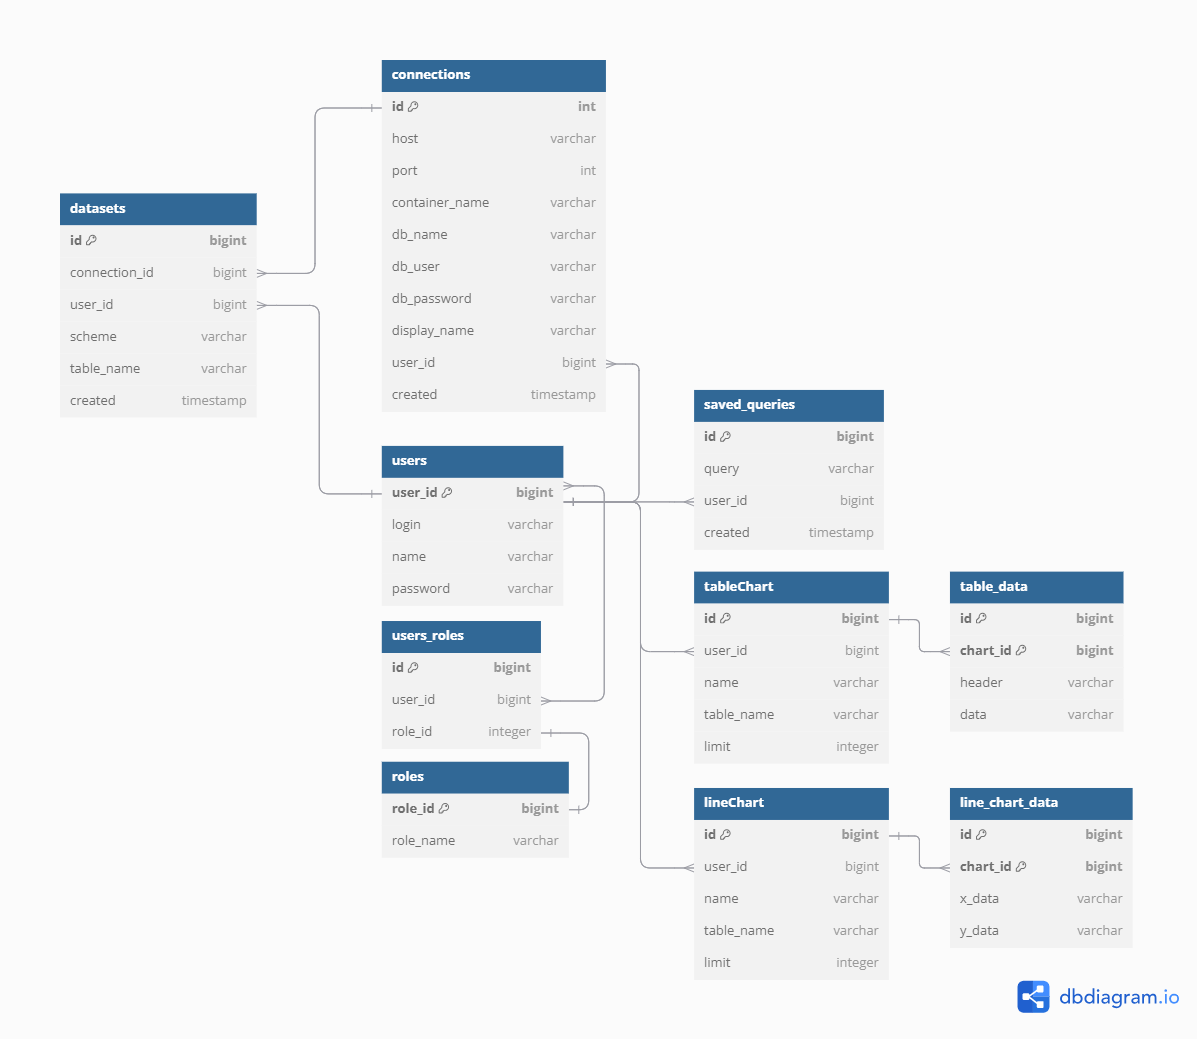
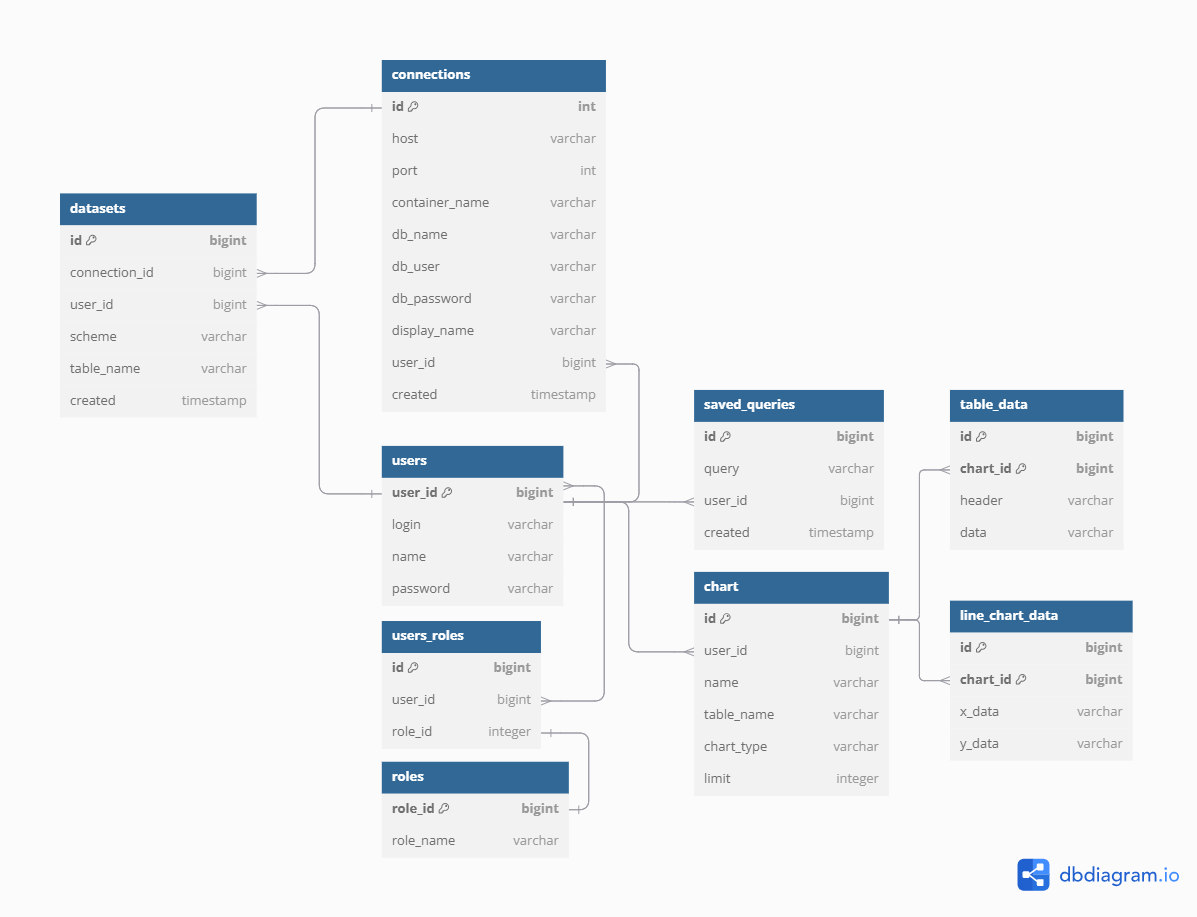
ontroller service

diff --git a/src/main/java/datamartapp/services/implementation/ChartServiceImp.java b/src/main/java/datamartapp/services/implementation/ChartServiceImp.java
@@ -1,0 +1,85 @@
+package datamartapp.services.implementation;
+
+import datamartapp.common.ChartType;
+import datamartapp.dto.chart.ChartDto;
+import datamartapp.dto.chart.ChartDtoResponse;
+import datamartapp.dto.chart.LineChartDto;
+import datamartapp.dto.chart.TableChartDto;
+import datamartapp.exceptions.NotFoundException;
+import datamartapp.exceptions.ValidationException;
+import datamartapp.model.charts.LineChart;
+import datamartapp.services.ChartService;
+import lombok.RequiredArgsConstructor;
+import lombok.extern.slf4j.Slf4j;
+import org.springframework.stereotype.Service;
+
+import java.util.List;
+
+@Service
+@RequiredArgsConstructor
+@Slf4j
+public class ChartServiceImp implements ChartService {
+
+    @Override
+    public TableChartDto createTableChart(ChartDto chartDto, int limit, ChartType chartType, List<String> headers) {
+        validateLimit(limit);
+        return prepareTableChart(chartDto, limit, headers);
+    }
+
+    @Override
+    public LineChartDto createLineChart(ChartDto chartDto, int limit, ChartType chartType,
+                                        String xAxisColumn, String yAxisColumn) {
+        validateLimit(limit);
+        return prepareLineChart(chartDto, limit, xAxisColumn, yAxisColumn);
+    }
+
+    private TableChartDto prepareTableChart(ChartDto chartDto, int limit, List<String> headers) {
+
+        return null;
+    }
+
+    private LineChartDto prepareLineChart(ChartDto chartDto, int limit, String xAxisColumn, String yAxisColumn) {
+        return null;
+    }
+
+    private void validateLimit(int limit) {
+        if (limit <= 0) {
+            log.warn("");
+            throw new ValidationException("");
+        }
+    }
+
+
+
+/*    @Override
+    public ChartDtoResponse createChart(ChartDto chartDtoRequest, int limit, String type) {
+        validateLimit(limit);
+        ChartType chartType = validateChartType(type);
+        return defineAndCreateChart(chartDtoRequest, limit, chartType);
+    }*/
+
+/*    private ChartDtoResponse defineAndCreateChart(ChartDto chartDto, int limit, ChartType chartType) {
+        if (chartType.equals(ChartType.TABLE_CHART)) {
+            return createTableChart(chartDto, limit);
+        }
+        if (chartType.equals(ChartType.LINE_CHART)) {
+            return createLineChart(chartDto, limit);
+        }
+        log.warn("");
+        throw new NotFoundException("");
+    }*/
+
+
+
+
+/*    private ChartType validateChartType(String type) {
+        try {
+            return ChartType.valueOf(type);
+        } catch (IllegalArgumentException e) {
+            log.warn("");
+            throw new ValidationException("");
+        }
+    }*/
+
+
+}

diff --git a/src/main/java/datamartapp/controllers/restControllers/ChartController.java b/src/main/java/datamartapp/controllers/restControllers/ChartController.java
@@ -1,13 +1,16 @@
 package datamartapp.controllers.restControllers;
 
-import datamartapp.dto.ChartDtoRequest;
-import datamartapp.dto.ChartDtoResponse;
+import datamartapp.common.ChartType;
+import datamartapp.dto.chart.ChartDto;
+import datamartapp.dto.chart.ChartDtoResponse;
 import datamartapp.services.ChartService;
 import jakarta.validation.Valid;
 import lombok.RequiredArgsConstructor;
 import lombok.extern.slf4j.Slf4j;
 import org.springframework.http.HttpStatus;
 import org.springframework.web.bind.annotation.*;
+
+import java.util.List;
 
 @RestController
 @RequestMapping("data-mart/charts")
@@ -19,13 +22,26 @@ public class ChartController {
 
     @PostMapping
     @ResponseStatus(HttpStatus.CREATED)
-    public ChartDtoResponse constructChart(@Valid @RequestBody ChartDtoRequest chartDtoRequest, int limit) {
-        return chartService.createChart(chartDtoRequest, limit);
+    public ChartDtoResponse constructTableChart(@Valid @RequestBody ChartDto chartDtoRequest,
+                                           @RequestParam(value = "limit") int limit,
+                                           @RequestParam(value = "headers") List<String> headers) {
+        log.info("");
+        return chartService.createTableChart(chartDtoRequest, limit, ChartType.TABLE_CHART, headers);
     }
 
     @PostMapping
     @ResponseStatus(HttpStatus.CREATED)
-    public ChartDtoResponse saveChart(@Valid @RequestBody ChartDtoRequest chartDtoRequest, int limit) {
+    public ChartDtoResponse constructLineChart(@Valid @RequestBody ChartDto chartDtoRequest,
+                                                @RequestParam(value = "limit") int limit,
+                                                @RequestParam(value = "xAxisColumn") String xAxisColumn,
+                                                @RequestParam(value = "yAxisColumn") String yAxisColumn) {
+        log.info("");
+        return chartService.createLineChart(chartDtoRequest, limit, ChartType.LINE_CHART, xAxisColumn, yAxisColumn);
+    }
+
+    @PostMapping
+    @ResponseStatus(HttpStatus.CREATED)
+    public ChartDtoResponse saveChart(@Valid @RequestBody ChartDto chartDtoRequest, int limit) {
         return null;
     }
 

diff --git a/src/main/java/datamartapp/services/ChartService.java b/src/main/java/datamartapp/services/ChartService.java
@@ -1,10 +1,20 @@
 package datamartapp.services;
 
-import datamartapp.dto.ChartDtoRequest;
-import datamartapp.dto.ChartDtoResponse;
+import datamartapp.common.ChartType;
+import datamartapp.dto.chart.ChartDto;
+import datamartapp.dto.chart.ChartDtoResponse;
+import datamartapp.dto.chart.LineChartDto;
+import datamartapp.dto.chart.TableChartDto;
 import org.springframework.stereotype.Service;
+
+import java.util.List;
 
 @Service
 public interface ChartService {
-    ChartDtoResponse createChart(ChartDtoRequest chartDtoRequest, int limit);
+    //ChartDtoResponse createChart(ChartDto chartDtoRequest, int limit, String type);
+
+    TableChartDto createTableChart(ChartDto chartDto, int limit, ChartType chartType, List<String> headers);
+
+    LineChartDto createLineChart(ChartDto chartDto, int limit, ChartType chartType,
+                                 String xAxisColumn, String yAxisColumn);
 }

diff --git a/src/main/java/datamartapp/dto/chart/ChartDto.java b/src/main/java/datamartapp/dto/chart/ChartDto.java
@@ -1,23 +1,12 @@
-package datamartapp.model.charts;
+package datamartapp.dto.chart;
 
 import datamartapp.common.ChartType;
-import datamartapp.model.users.User;
-import jakarta.persistence.*;
 import jakarta.validation.constraints.NotBlank;
 import jakarta.validation.constraints.NotNull;
-import lombok.Data;
 
-@Entity
-@Table(name = "chart")
-@Data
-public class Chart {
-    @Id
-    @GeneratedValue(strategy = GenerationType.IDENTITY)
-    private Long id;
+public class ChartDto {
 
-    @ManyToOne
-    @JoinColumn(name = "user_id")
-    private User user;
+    private Long userId;
 
     @NotBlank(message = "Name must exist")
     private String name;

diff --git a/src/main/java/datamartapp/model/charts/TableChart.java b/src/main/java/datamartapp/model/charts/TableChart.java
@@ -1,8 +1,6 @@
 package datamartapp.model.charts;
 
-import jakarta.persistence.Entity;
-import jakarta.persistence.Table;
-import jakarta.persistence.Transient;
+import jakarta.persistence.*;
 import lombok.Getter;
 import lombok.Setter;
 
@@ -12,7 +10,19 @@ import java.util.List;
 @Table(name = "")
 @Getter
 @Setter
-public class TableChart extends Chart {
+public class TableChart {
+
+    @Id
+    @GeneratedValue(strategy = GenerationType.IDENTITY)
+    private Long id;
+
+    private Long chartId;
+
+    private String header;
+
+    private String data;
+
+
 
     @Transient
     private List<String> tableHeaders;

diff --git a/src/main/java/datamartapp/dto/chart/TableChartDto.java b/src/main/java/datamartapp/dto/chart/TableChartDto.java
@@ -1,0 +1,13 @@
+package datamartapp.dto.chart;
+
+import lombok.Getter;
+import lombok.Setter;
+
+import java.util.List;
+
+@Getter
+@Setter
+public class TableChartDto extends ChartDtoResponse {
+    private List<String> headers;
+    private List<List<String>> data;
+}

diff --git a/src/main/java/datamartapp/dto/chart/ChartDtoResponse.java b/src/main/java/datamartapp/dto/chart/ChartDtoResponse.java
@@ -1,0 +1,8 @@
+package datamartapp.dto.chart;
+
+import lombok.Data;
+
+@Data
+public class ChartDtoResponse {
+    private String chartName;
+}

diff --git a/src/main/java/datamartapp/common/ChartType.java b/src/main/java/datamartapp/common/ChartType.java
@@ -1,0 +1,6 @@
+package datamartapp.common;
+
+public enum ChartType {
+    TABLE_CHART,
+    LINE_CHART
+}

diff --git a/src/main/java/datamartapp/dto/chart/LineChartDto.java b/src/main/java/datamartapp/dto/chart/LineChartDto.java
@@ -1,0 +1,4 @@
+package datamartapp.dto.chart;
+
+public class LineChartDto extends ChartDtoResponse {
+}
